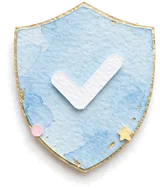
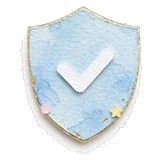
Selos: figuras de papel centralizadas em quadrado

diff --git a/index.html b/index.html
@@ -128,7 +128,7 @@
       <h3>Pagamento e entrega</h3>
       <ul class="lista-ic">
         <li><svg class="ic-pix" viewBox="0 0 24 24" aria-hidden="true"><path d="M5.283 18.36a3.505 3.505 0 0 0 2.493-1.032l3.6-3.6a.684.684 0 0 1 .946 0l3.613 3.613a3.504 3.504 0 0 0 2.493 1.032h.71l-4.56 4.56a3.647 3.647 0 0 1-5.156 0L4.85 18.36ZM18.428 5.627a3.505 3.505 0 0 0-2.493 1.032l-3.613 3.614a.67.67 0 0 1-.946 0l-3.6-3.6A3.505 3.505 0 0 0 5.283 5.64h-.434l4.573-4.572a3.646 3.646 0 0 1 5.156 0l4.559 4.559ZM1.068 9.422 3.79 6.699h1.492a2.483 2.483 0 0 1 1.744.722l3.6 3.6a1.73 1.73 0 0 0 2.443 0l3.614-3.613a2.482 2.482 0 0 1 1.744-.723h1.767l2.737 2.737a3.646 3.646 0 0 1 0 5.156l-2.736 2.736h-1.768a2.482 2.482 0 0 1-1.744-.722l-3.613-3.613a1.77 1.77 0 0 0-2.444 0l-3.6 3.6a2.483 2.483 0 0 1-1.744.722H3.791l-2.723-2.723a3.646 3.646 0 0 1 0-5.156"/></svg><span><strong>Pix</strong> com o preço do site</span></li>
-        <li><img class="ic-lista" src="assets/arte/ic-pix-cartao.webp" alt="" width="160" height="156" aria-hidden="true"><span><strong>Cartão de crédito</strong> em até <span id="parcelas">12</span>x, com juros por conta do cliente</span></li>
+        <li><img class="ic-lista" src="assets/arte/ic-pix-cartao.webp" alt="" width="160" height="160" aria-hidden="true"><span><strong>Cartão de crédito</strong> em até <span id="parcelas">12</span>x, com juros por conta do cliente</span></li>
 <li class="bandeiras-item"><img class="ic-lista" src="assets/arte/ic-cartao.webp" alt="" width="120" height="61" aria-hidden="true"><span><strong>Cartões aceitos</strong>
           <span class="bandeiras" role="list" aria-label="Bandeiras aceitas">
             <span class="bandeira" role="listitem" title="Visa"><svg viewBox="0 0 24 24" aria-label="Visa" role="img" style="fill:#1A1F71"><path d="M9.112 8.262L5.97 15.758H3.92L2.374 9.775c-.094-.368-.175-.503-.461-.658C1.447 8.864.677 8.627 0 8.479l.046-.217h3.3a.904.904 0 01.894.764l.817 4.338 2.018-5.102zm8.033 5.049c.008-1.979-2.736-2.088-2.717-2.972.006-.269.262-.555.822-.628a3.66 3.66 0 011.913.336l.34-1.59a5.207 5.207 0 00-1.814-.333c-1.917 0-3.266 1.02-3.278 2.479-.012 1.079.963 1.68 1.698 2.04.756.367 1.01.603 1.006.931-.005.504-.602.725-1.16.734-.975.015-1.54-.263-1.992-.473l-.351 1.642c.453.208 1.289.39 2.156.398 2.037 0 3.37-1.006 3.377-2.564m5.061 2.447H24l-1.565-7.496h-1.656a.883.883 0 00-.826.55l-2.909 6.946h2.036l.405-1.12h2.488zm-2.163-2.656l1.02-2.815.588 2.815zm-8.16-4.84l-1.603 7.496H8.34l1.605-7.496z"/></svg></span>
@@ -151,10 +151,10 @@
     </div>
   </div>
   <ul class="selos" aria-label="Segurança e atendimento">
-    <li><span class="selo-ic"><img src="assets/arte/ic-seguro.webp" alt="" width="160" height="227" aria-hidden="true"></span><span><strong>Site seguro</strong>Conexão protegida por HTTPS</span></li>
-    <li><span class="selo-ic"><img src="assets/arte/ic-escudo.webp" alt="" width="160" height="188" aria-hidden="true"></span><span><strong>Sem pagamento no site</strong>Você combina direto com a loja</span></li>
-    <li><span class="selo-ic"><img src="assets/arte/ic-pix-cartao.webp" alt="" width="160" height="156" aria-hidden="true"></span><span><strong>Pix ou cartão</strong>Cartão em até <span class="parcelas-valor">12</span>x</span></li>
-    <li><span class="selo-ic"><img src="assets/arte/ic-atendimento.webp" alt="" width="160" height="236" aria-hidden="true"></span><span><strong>Atendimento direto</strong>Pelo WhatsApp da loja</span></li>
+    <li><span class="selo-ic"><img src="assets/arte/ic-seguro.webp" alt="" width="160" height="160" aria-hidden="true"></span><span><strong>Site seguro</strong>Conexão protegida por HTTPS</span></li>
+    <li><span class="selo-ic"><img src="assets/arte/ic-escudo.webp" alt="" width="160" height="160" aria-hidden="true"></span><span><strong>Sem pagamento no site</strong>Você combina direto com a loja</span></li>
+    <li><span class="selo-ic"><img src="assets/arte/ic-pix-cartao.webp" alt="" width="160" height="160" aria-hidden="true"></span><span><strong>Pix ou cartão</strong>Cartão em até <span class="parcelas-valor">12</span>x</span></li>
+    <li><span class="selo-ic"><img src="assets/arte/ic-atendimento.webp" alt="" width="160" height="160" aria-hidden="true"></span><span><strong>Atendimento direto</strong>Pelo WhatsApp da loja</span></li>
   </ul>
   <nav class="rodape-links" aria-label="Informações da loja">
     <a href="trocas-e-devolucoes.html"><img class="link-ic" src="assets/arte/ic-trocas.webp" alt="" width="160" height="184" aria-hidden="true">Trocas e devoluções</a>

diff --git a/style.css b/style.css
@@ -503,3 +503,5 @@ dialog#sacola .fechar{right:14px;top:16px}
 .lista-ic .ic-rede{width:34px;height:34px;border-radius:0;background:none}
 .lista-ic .ic-rede.r-whats,.lista-ic .ic-rede.r-insta,.lista-ic .ic-rede.r-tiktok{background:none}
 .passos li:last-child{margin-bottom:0}
+.selo-ic{width:48px;height:48px;display:grid;place-items:center;align-self:center}
+.selo-ic img{width:100%;height:100%;object-fit:contain;display:block}
